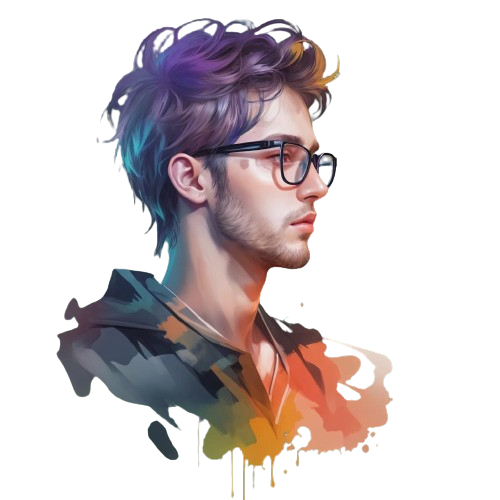
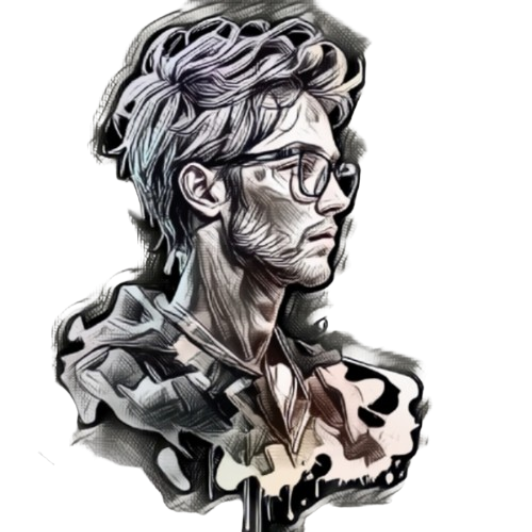
change in images

diff --git a/src/pages/about.js b/src/pages/about.js
@@ -2,7 +2,7 @@ import AnimatedText from '@/components/AnimatedText'
 import Layout from '@/components/Layout'
 import Head from 'next/head'
 import React, { useEffect, useRef } from 'react'
-import developer2 from '../../public/images/profile/Developer2.png'
+import developer2 from '../../public/images/profile/Developer2.jpg'
 import Image from 'next/image'
 import { useInView, useMotionValue, useSpring } from 'framer-motion'
 import Skills from '@/components/Skills'
